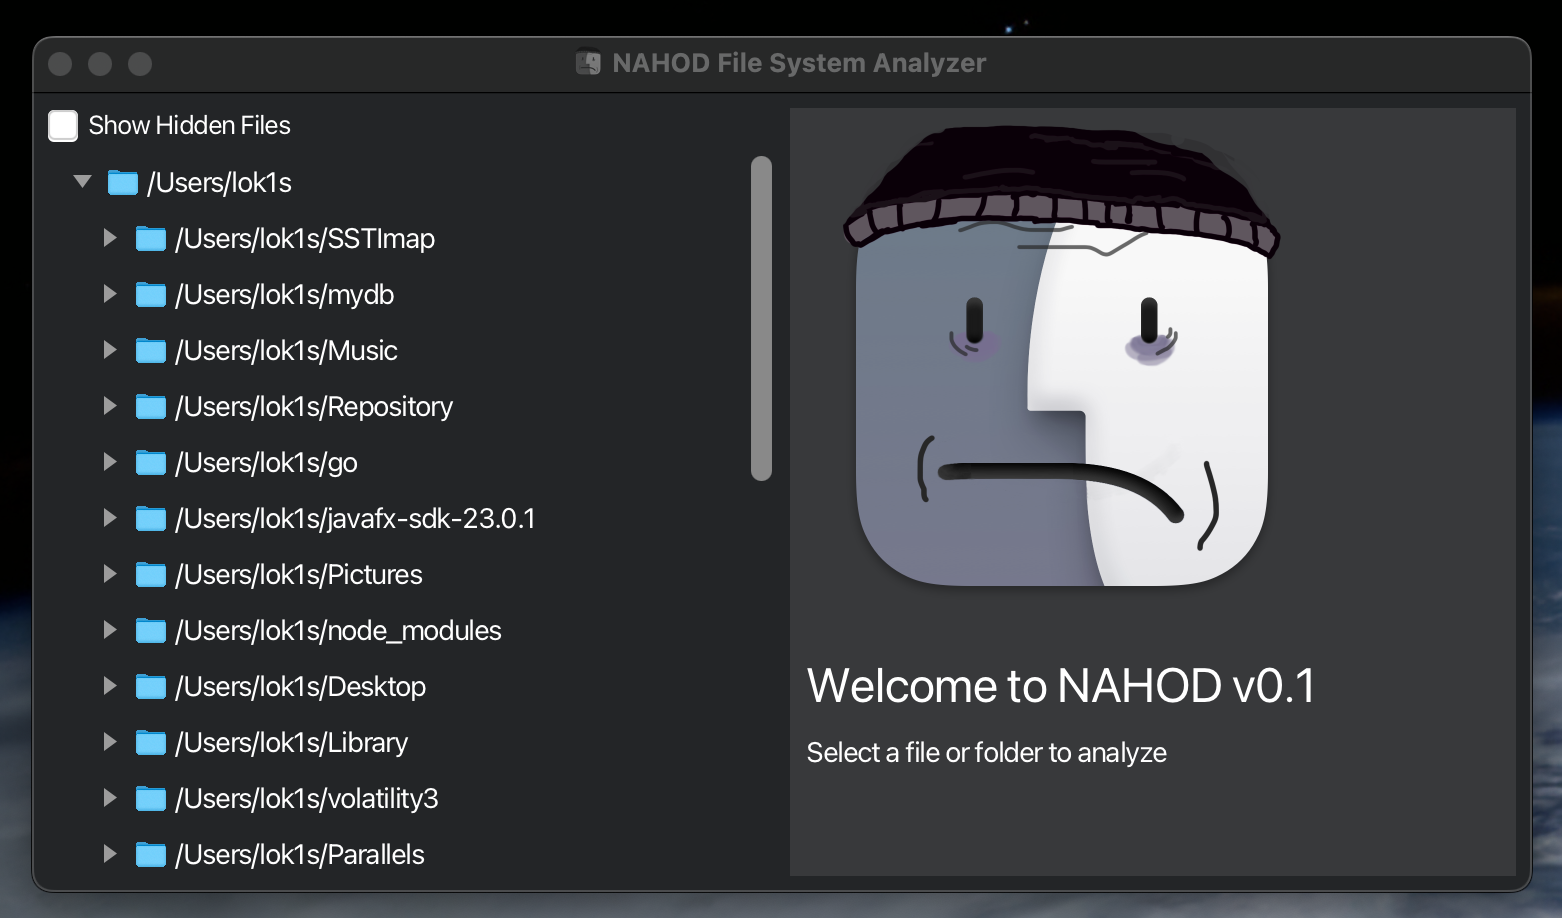
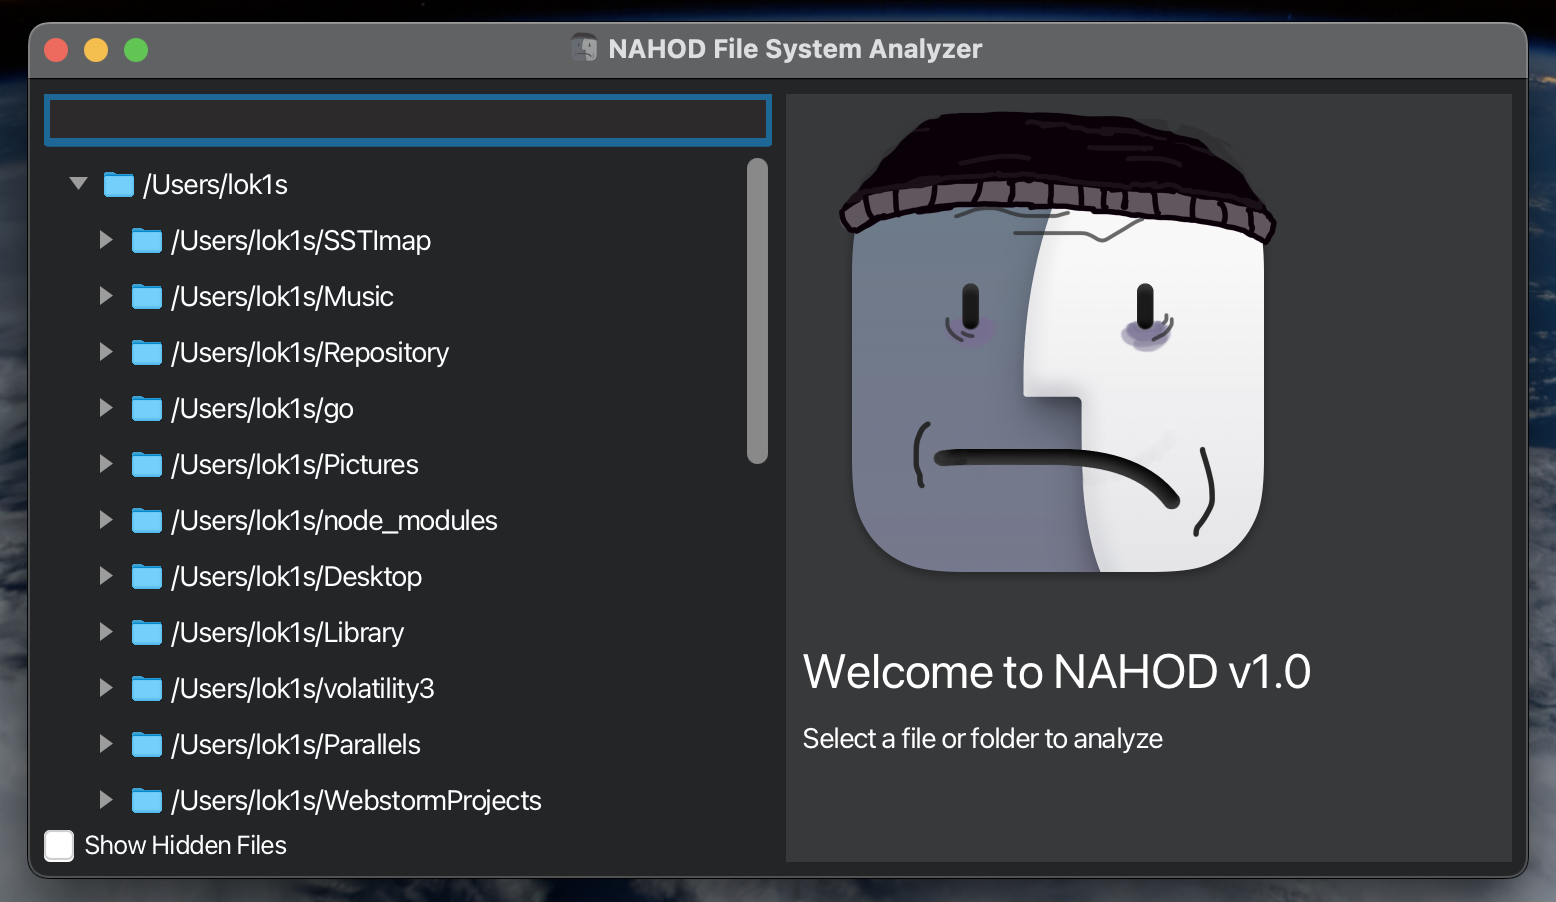
v1.1 release

diff --git a/src/main/java/io/lok1s/nahod/Nahod.java b/src/main/java/io/lok1s/nahod/Nahod.java
@@ -205,7 +205,7 @@ public class Nahod extends Application {
     }
 
     private void setPlaceholder() {
-        setPlaceholderContent(appIcon, "Welcome to NAHOD v1.0", "Select a file or folder to analyze");
+        setPlaceholderContent(appIcon, "Welcome to NAHOD v1.1", "Select a file or folder to analyze");
     }
 
     private void setErrorAlert() {

diff --git a/src/main/java/module-info.java b/src/main/java/module-info.java
@@ -5,9 +5,9 @@ module io.lok1s.nahod {
     requires java.desktop;
     requires javafx.controls;
     requires org.apache.logging.log4j;
+    requires org.apache.logging.log4j.core;
     requires org.apache.logging.log4j.iostreams;
     requires org.apache.commons.io;
-
     opens io.lok1s.nahod to javafx.fxml;
     exports io.lok1s.nahod;
 }

diff --git a/README.md b/README.md
@@ -6,11 +6,15 @@
 
 ## Features
 
-- **Directory Analysis**: Analyze specified directories and files, displaying their names, disk space usage, creation dates, and creator information.
-- **Tree View Interface**: Explore directories and files in a tree-like structure, similar to the Windows Registry editor, with expandable folders.
-- **File Metadata**: View detailed metadata for each file, including size, creation date, and author.
-- **Hidden File Toggle**: Show or hide hidden files with an easy-to-use checkbox.
-- **Customizable Dark Theme**: The application uses a macOS-inspired dark theme for an intuitive, visually appealing experience.
+- **Directory and File Analysis:** NAHOD enables users to analyze specified directories and files, displaying information such as names, sizes, creation dates, and file metadata
+
+- **Tree View Navigation:** Explore directories and files in a tree-like structure, similar to traditional file explorers, with expandable folders and hierarchical organization
+
+- **File Metadata:** View comprehensive metadata for each file, including size, creation date, modification date, and more
+
+- **Hidden Files Toggle:** Easily toggle the visibility of hidden files to suit your needs
+
+- **Cross-Platform Compatibility:** NAHOD works seamlessly across different platforms including Windows, macOS, and Linux, offering a consistent and smooth user experience
 
 ## Screenshots
 
@@ -19,55 +23,58 @@
 ## Prerequisites
 
 - **Java 11 or higher**: The application is built with JavaFX, which requires at least Java 11.
-- **Maven**: Used for dependency management and building the project.
-
 
 ## Installation
 
-[Releases page](https://github.com/thelok1s/nahod/releases)
+See [Releases page](https://github.com/thelok1s/nahod/releases)
 
 ## Building from Source
 
-### Prerequisites
+This project uses Gradle to build and package the application. It utilizes several plugins to manage dependencies, create a custom JAR with a modular approach, and package the application as an installer for different platforms.
 
-- Java Development Kit (JDK) 17 or later
-- Maven (for dependency management) with JavaFX plugins
-- Ensure `JAVA_HOME` environment variable is set to your JDK installation path.
-- Ensure Gradle is not present in your system as it is garbage.
+### Requirements
 
-### Steps to Build
+- JDK 21 
+- Gradle 8.5 or newer
 
-1. **Clone the Repository**:
-   ```bash
-   git clone https://github.com/thelok1s/nahod.git
-   cd nahod
-    ```
-   
-2. **Compile and Package the Application**:
+### Build
 
-   Use Maven to compile and package the application into a JAR file with the required dependencies.
-   
-    ```bash
-   mvn clean install
-   mvn javafx:jlink
-    ```
+To build the application, use the following Gradle command:
 
-3.	**Run the Application**:
+`./gradlew clean build`
 
-      After building, you can run the application with the following command:
-      ```bash
-      java -jar target/app.jar
-      ```
-   
-**Building with JavaFX Libraries**
+### This will:
+- Compile the source code
+- Generate a JAR file
+- Package the application with necessary dependencies
 
-If JavaFX libraries are not bundled in your JDK, ensure you include JavaFX SDK in your pom.xml dependencies. Additionally, add --module-path and --add-modules javafx.controls,javafx.fxml to the command line when running.
+Running the Application
 
-Important Notes
+To run the application, use:
 
-	•	Asset Files: Ensure the assets folder with required icons (folder-icon.png, file-icon.png, and appicon.png) is available in the src/main/resources directory.
-	•	Stylesheet: Ensure styles.css file is located in src/main/resources to apply the application’s theme.
+`./gradlew run`
 
-This will build a .jar file named NahodFileManager.jar in the target directory, ready for distribution.
+This command will run the main class defined in the application plugin configuration (io.lok1s.nahod.MainLauncher).
 
-This section includes cloning, building, and running instructions tailored to your project structure and dependencies. You can adapt the repository URL and file names to match your setup.
+### Creating a Modular JAR
+
+This project uses the jlink and [badass-jlink](https://github.com/beryx/badass-jlink-plugin) plugin to create modular JAR. To generate a JAR file, run:
+
+`./gradlew jlink`
+
+### Creating a Shadow (Fat) JAR
+
+This project also supports creating a fat (shadow) JAR using the shadowJar task. To generate a fat JAR file, run:
+
+`./gradlew shadowJar`
+
+This will bundle the application and its dependencies into a single JAR file located in the build/libs directory. 
+
+### Creating an Installer
+
+jpackage plugin could be used to create an installer for different platforms.
+_Current jpackage configuration was not used on production, so it might need some adjustments. Check build.gradle for further information._
+To create an installer, run:
+
+`./gradlew jpackage`
+
